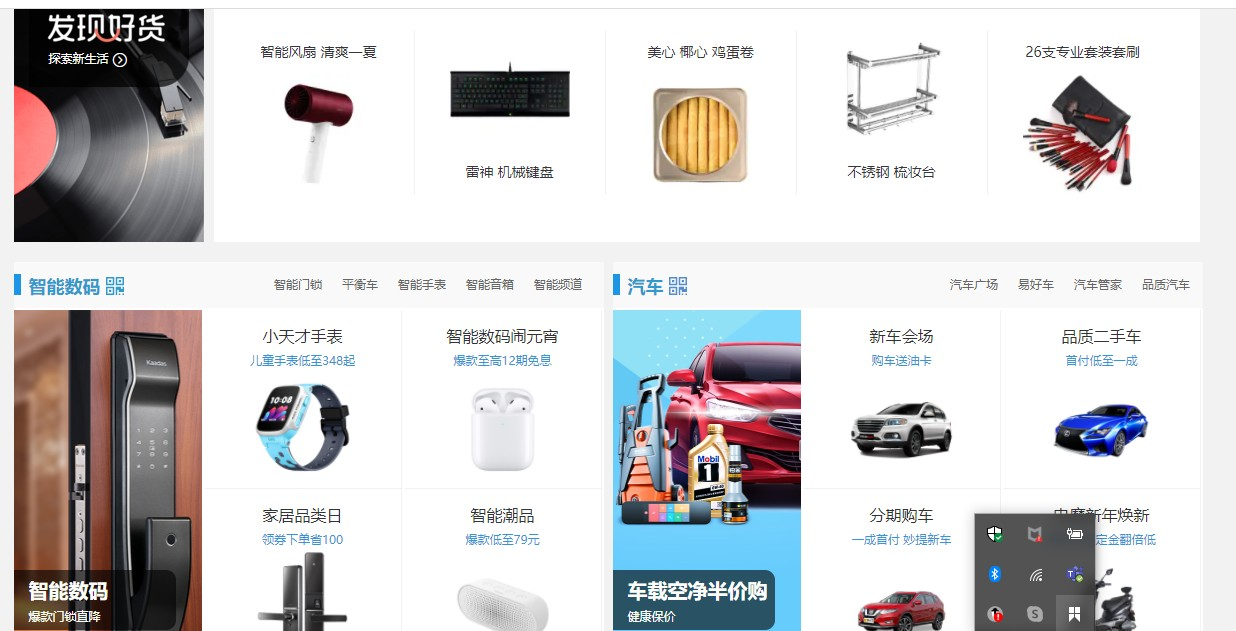
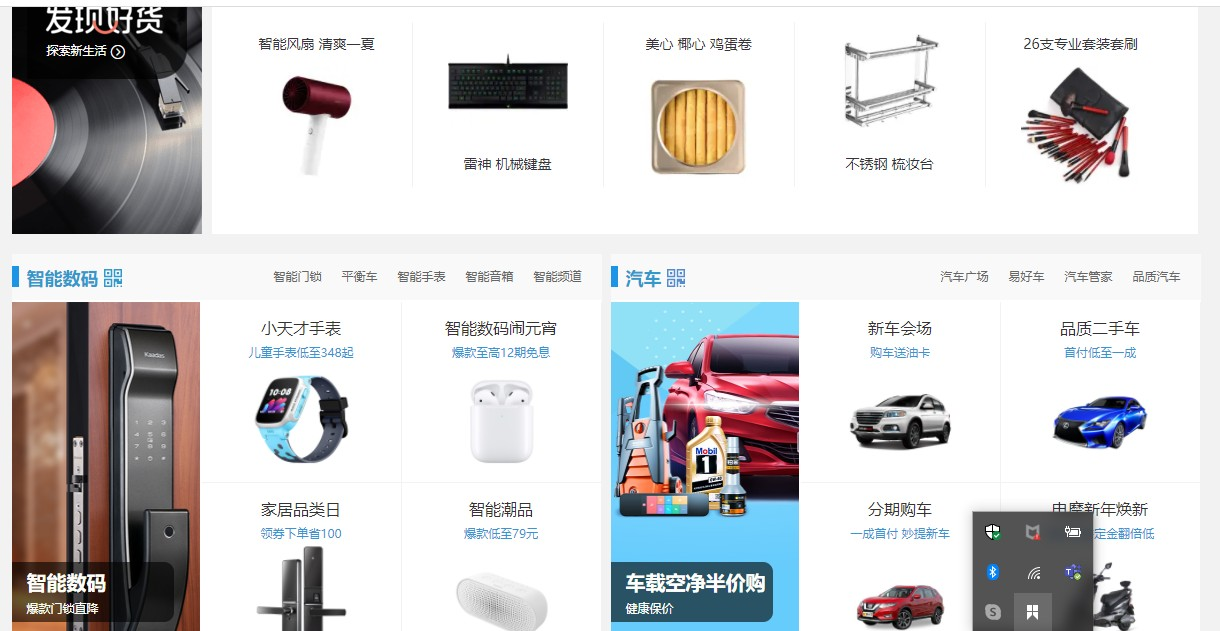
modify recommend list

diff --git a/uMall/index.html b/uMall/index.html
@@ -762,7 +762,7 @@
                 </h3>
                 <div class="recommendlist clearfix">
                     <ul>
-                        <li class = "fl">
+                        <li>
                             <a href="#">
                                 <div class="recommendimg">
                                     <img src="./images/list_img01.jpg" alt="recommendlist">
@@ -778,7 +778,7 @@
                                 <em class="lingquan"></em>
                             </a>
                         </li>
-                        <li class = "fl">
+                        <li>
                             <a href="#">
                                 <div class="recommendimg">
                                     <img src="./images/list_img02.jpg" alt="recommendlist">
@@ -794,7 +794,7 @@
                                 <em class="lingquan"></em>
                             </a>
                         </li>
-                        <li class = "fl">
+                        <li>
                             <a href="#">
                                 <div class="recommendimg">
                                     <img src="./images/list_img03.jpg" alt="recommendlist">
@@ -809,7 +809,7 @@
             
                             </a>
                         </li>
-                        <li class = "fl">
+                        <li>
                             <a href="#">
                                 <div class="recommendimg">
                                     <img src="./images/list_img04.jpg" alt="recommendlist">
@@ -825,7 +825,7 @@
                                 <em class="lingquan"></em>
                             </a>
                         </li>
-                        <li class = "fl">
+                        <li>
                             <a href="#">
                                 <div class="recommendimg">
                                     <img src="./images/list_img05.jpg" alt="recommendlist">
@@ -841,7 +841,7 @@
                                 <em class="lingquan"></em>
                             </a>
                         </li>
-                        <li class = "fl">
+                        <li>
                             <a href="#">
                                 <div class="recommendimg">
                                     <img src="./images/list_img06.jpg" alt="recommendlist">
@@ -857,7 +857,7 @@
                                 <em class="lingquan"></em>
                             </a>
                         </li>
-                        <li class = "fl">
+                        <li>
                             <a href="#">
                                 <div class="recommendimg">
                                     <img src="./images/list_img07.jpg" alt="recommendlist">
@@ -873,7 +873,7 @@
                                 <em class="lingquan"></em>
                             </a>
                         </li>
-                        <li class = "fl">
+                        <li>
                             <a href="#">
                                 <div class="recommendimg">
                                     <img src="./images/list_img08.jpg" alt="recommendlist">
@@ -889,7 +889,7 @@
                                 <em class="lingquan"></em>
                             </a>
                         </li>
-                        <li class = "fl">
+                        <li>
                             <a href="#">
                                 <div class="recommendimg">
                                     <img src="./images/list_img09.jpg" alt="recommendlist">
@@ -905,7 +905,7 @@
                                 <em class="lingquan"></em>
                             </a>
                         </li>
-                        <li class = "fl">
+                        <li>
                             <a href="#">
                                 <div class="recommendimg">
                                     <img src="./images/list_img10.jpg" alt="recommendlist">
@@ -919,7 +919,7 @@
                                 </p>
                             </a>
                         </li>
-                        <li class = "fl">
+                        <li>
                             <a href="#">
                                 <div class="recommendimg">
                                     <img src="./images/list_img11.jpg" alt="recommendlist">
@@ -935,7 +935,7 @@
                                 <em class="lingquan"></em>
                             </a>
                         </li>
-                        <li class = "fl">
+                        <li>
                             <a href="#">
                                 <div class="recommendimg">
                                     <img src="./images/list_img12.jpg" alt="recommendlist">
@@ -951,7 +951,7 @@
                                 <em class="lingquan"></em>
                             </a>
                         </li>
-                        <li class = "fl">
+                        <li>
                             <a href="#">
                                 <div class="recommendimg">
                                     <img src="./images/list_img13.jpg" alt="recommendlist">
@@ -965,7 +965,7 @@
                                 </p>
                             </a>
                         </li>
-                        <li class = "fl">
+                        <li>
                             <a href="#">
                                 <div class="recommendimg">
                                     <img src="./images/list_img14.jpg" alt="recommendlist">
@@ -981,7 +981,7 @@
                                 <em class="lingquan"></em>
                             </a>
                         </li>
-                        <li class = "fl">
+                        <li>
                             <a href="#">
                                 <div class="recommendimg">
                                     <img src="./images/list_img15.jpg" alt="recommendlist">

diff --git a/uMall/css/index.css b/uMall/css/index.css
@@ -782,18 +782,17 @@
 .list .container .car .carlist ul,
 .list .container .lifelec .lifelist ul,
 .list .container .furniture .furlist ul{
-    margin-left: 188px;
+    margin-left: 190px;
 }
 .list .container .inteldigit .intellist ul > li, 
 .list .container .car .carlist ul > li,
 .list .container .lifelec .lifelist ul > li,
 .list .container .furniture .furlist ul > li{
-    width:196px;
-    height: 178px;
+    width:199px;
+    height: 180px;
     border-right: 1px solid #f2f2f2;
     border-bottom: 1px solid #f2f2f2;
     text-align: center;
-    margin-left: 3px;
 }
 .list .container .inteldigit .intellist ul > li:hover, 
 .list .container .car .carlist ul > li:hover,
@@ -847,7 +846,7 @@
     height: 340px;
     border:1px solid #f2f2f2;
     border-left-style: none;
-    /* text-align: center; */
+    float: left;
 }
 .list .container .recommend > .recommendlist> ul > li:hover{
     border: 1px solid #DF1A11;
